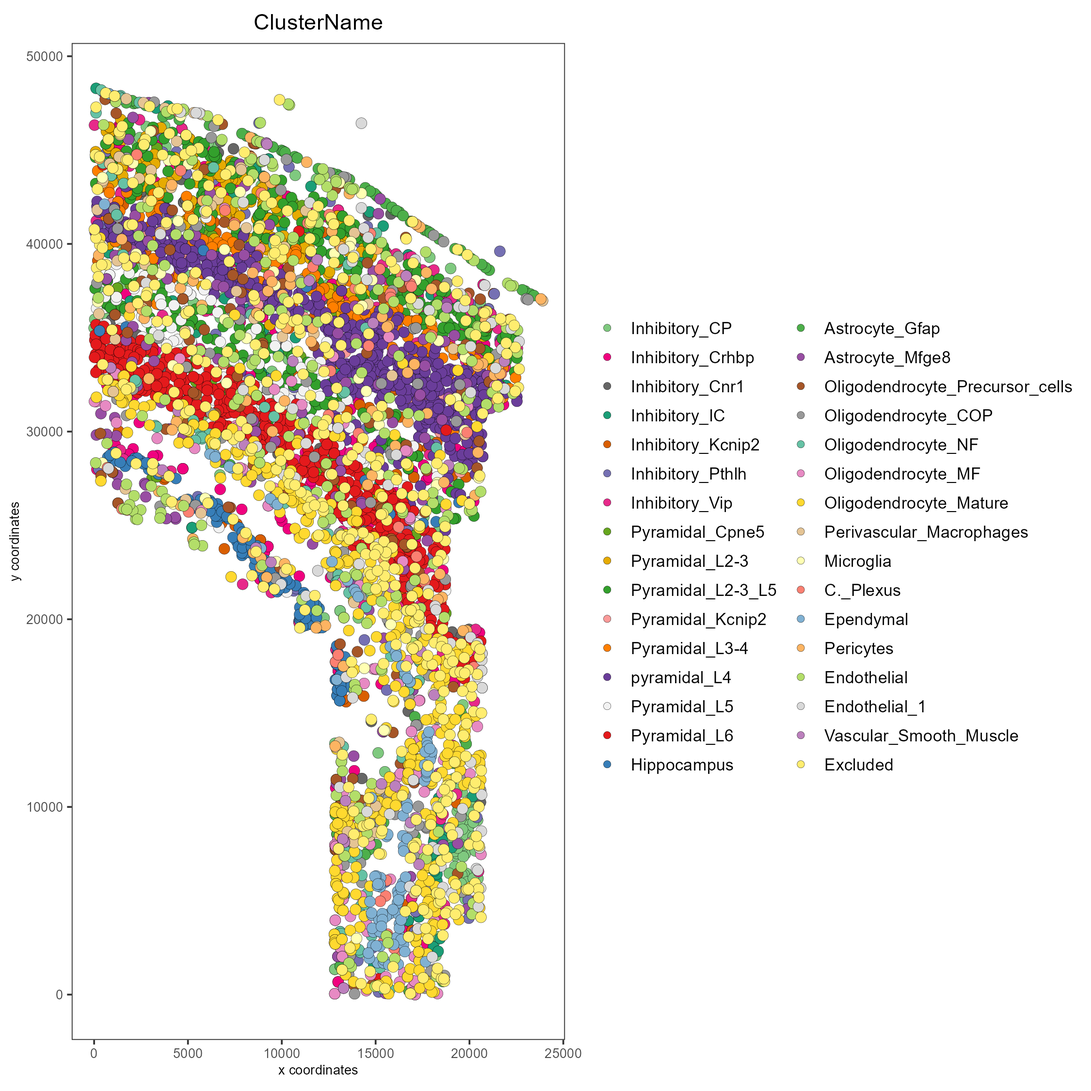
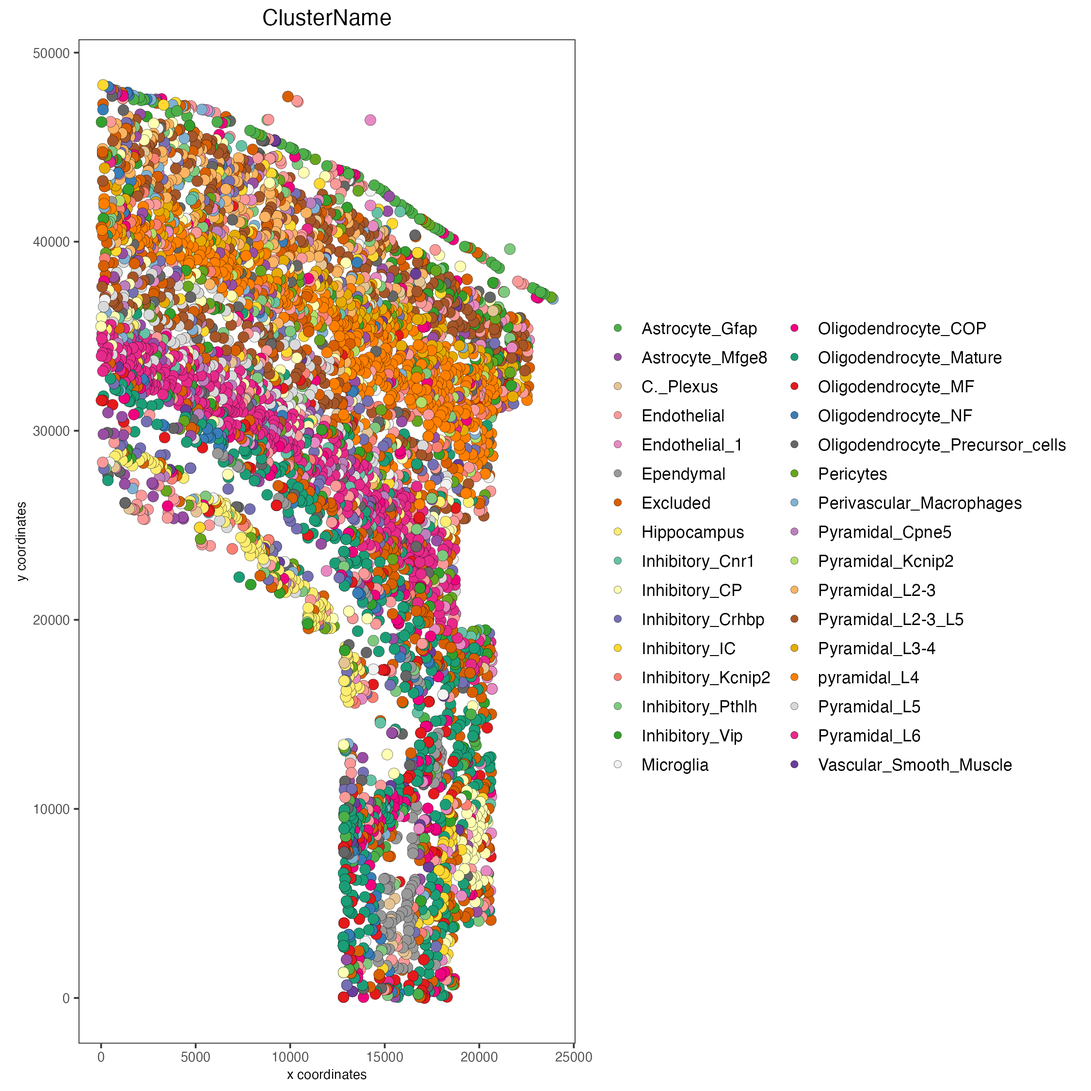
Deploying to gh-pages from @ drieslab/Giotto_website@a1eb78bae1045514c6e5ac2a14a46ceac8975e6e 🚀

diff --git a/articles/object_creation.html b/articles/object_creation.html
@@ -395,7 +395,9 @@ locally.</p>
 <span><span class="co"># alternatively, "/path/to/store/the/results/"</span></span>
 <span></span>
 <span><span class="co"># Download osmFISH dataset to data_directory</span></span>
-<span><span class="fu"><a href="https://drieslab.github.io/GiottoData/reference/getSpatialDataset.html" class="external-link">getSpatialDataset</a></span><span class="op">(</span>dataset <span class="op">=</span> <span class="st">'osmfish_SS_cortex'</span>, directory <span class="op">=</span> <span class="va">data_directory</span>, method <span class="op">=</span> <span class="st">'wget'</span><span class="op">)</span></span></code></pre></div>
+<span><span class="fu"><a href="https://drieslab.github.io/GiottoData/reference/getSpatialDataset.html" class="external-link">getSpatialDataset</a></span><span class="op">(</span>dataset <span class="op">=</span> <span class="st">'osmfish_SS_cortex'</span>, </span>
+<span>                  directory <span class="op">=</span> <span class="va">data_directory</span>, </span>
+<span>                  method <span class="op">=</span> <span class="st">'wget'</span><span class="op">)</span></span></code></pre></div>
 </div>
 <div class="section level3">
 <h3 id="minimum-requirements-for-a-giotto-object">1.2 Minimum requirements for a Giotto Object<a class="anchor" aria-label="anchor" href="#minimum-requirements-for-a-giotto-object"></a>
@@ -413,17 +415,17 @@ shown below this code block.</p>
 <span><span class="va">osm_exprs</span> <span class="op">=</span> <span class="fu"><a href="https://rdrr.io/r/base/paste.html" class="external-link">paste0</a></span><span class="op">(</span><span class="va">data_directory</span>, <span class="st">"osmFISH_prep_expression.txt"</span><span class="op">)</span></span>
 <span><span class="va">osm_locs</span> <span class="op">=</span> <span class="fu"><a href="https://rdrr.io/r/base/paste.html" class="external-link">paste0</a></span><span class="op">(</span><span class="va">data_directory</span>, <span class="st">"osmFISH_prep_cell_coordinates.txt"</span><span class="op">)</span></span>
 <span></span>
-<span><span class="va">minimum_gobject1</span> <span class="op">=</span> <span class="fu"><a href="https://drieslab.github.io/GiottoClass/reference/createGiottoObject.html" class="external-link">createGiottoObject</a></span><span class="op">(</span>expression <span class="op">=</span> <span class="va">osm_exprs</span>,</span>
-<span>                                      spatial_locs <span class="op">=</span> <span class="va">osm_locs</span><span class="op">)</span></span>
+<span><span class="va">minimum_gobject1</span> <span class="op">&lt;-</span> <span class="fu"><a href="https://drieslab.github.io/GiottoClass/reference/createGiottoObject.html" class="external-link">createGiottoObject</a></span><span class="op">(</span>expression <span class="op">=</span> <span class="va">osm_exprs</span>,</span>
+<span>                                       spatial_locs <span class="op">=</span> <span class="va">osm_locs</span><span class="op">)</span></span>
 <span></span>
 <span><span class="co"># Example 2.</span></span>
 <span><span class="co"># Create a Giotto object using objects already loaded into workspace</span></span>
 <span><span class="va">expression_matrix</span> <span class="op">=</span> <span class="fu"><a href="https://drieslab.github.io/GiottoClass/reference/readExprMatrix.html" class="external-link">readExprMatrix</a></span><span class="op">(</span>path <span class="op">=</span> <span class="va">osm_exprs</span><span class="op">)</span> <span class="co"># fast method to read expression matrix</span></span>
 <span><span class="va">cell_locations</span> <span class="op">=</span> <span class="fu">data.table</span><span class="fu">::</span><span class="fu"><a href="https://rdatatable.gitlab.io/data.table/reference/fread.html" class="external-link">fread</a></span><span class="op">(</span>file <span class="op">=</span> <span class="va">osm_locs</span><span class="op">)</span></span>
 <span></span>
-<span><span class="va">minimum_gobject2</span> <span class="op">=</span> <span class="fu"><a href="https://drieslab.github.io/GiottoClass/reference/createGiottoObject.html" class="external-link">createGiottoObject</a></span><span class="op">(</span>expression <span class="op">=</span> <span class="va">expression_matrix</span>,</span>
-<span>                                      spatial_locs <span class="op">=</span> <span class="va">cell_locations</span><span class="op">)</span></span></code></pre></div>
-<p>Expression file formatting</p>
+<span><span class="va">minimum_gobject2</span> <span class="op">&lt;-</span> <span class="fu"><a href="https://drieslab.github.io/GiottoClass/reference/createGiottoObject.html" class="external-link">createGiottoObject</a></span><span class="op">(</span>expression <span class="op">=</span> <span class="va">expression_matrix</span>,</span>
+<span>                                       spatial_locs <span class="op">=</span> <span class="va">cell_locations</span><span class="op">)</span></span></code></pre></div>
+<p><strong>Expression file formatting</strong></p>
 <p>Expression count matrices accepted by <em>Giotto</em> should have
 columns correlating to individual cells (<strong>cell IDs</strong>) and
 rows to individual features (<strong>feature IDs</strong>).</p>
@@ -433,7 +435,7 @@ be <strong>feature IDs</strong>.</p>
 <p><strong>matrix</strong> and <strong>DelayedMatrix</strong> objects
 should have <strong>feature IDs</strong> already incorporated as the
 rownames.</p>
-<p>Locations file formatting</p>
+<p><strong>Locations file formatting</strong></p>
 <p>Numerical columns will be interpreted in order of x, y, and
 (optionally) z coordinate. The first non-numerical column will be taken
 as <strong>cell IDs</strong></p>
@@ -447,10 +449,10 @@ at once during Giotto object creation by using a named list.</p>
 <span><span class="co"># Provide multiple expression matrices at once to the Giotto Object</span></span>
 <span><span class="co"># If these matrices are stored in files rather than in the workspace,</span></span>
 <span><span class="co"># file paths may be provided instead of variables</span></span>
-<span><span class="va">multi_expr_gobject</span> <span class="op">=</span> <span class="fu"><a href="https://drieslab.github.io/GiottoClass/reference/createGiottoObject.html" class="external-link">createGiottoObject</a></span><span class="op">(</span>expression <span class="op">=</span> <span class="fu"><a href="https://rdrr.io/r/base/list.html" class="external-link">list</a></span><span class="op">(</span>raw <span class="op">=</span> <span class="va">expression_matrix</span>,</span>
-<span>                                                          scaled <span class="op">=</span> <span class="va">scaled_matrix</span>,</span>
-<span>                                                          custom <span class="op">=</span> <span class="va">custom_matrix</span><span class="op">)</span>,</span>
-<span>                                        spatial_locs <span class="op">=</span> <span class="va">cell_locations</span><span class="op">)</span></span></code></pre></div>
+<span><span class="va">multi_expr_gobject</span> <span class="op">&lt;-</span> <span class="fu"><a href="https://drieslab.github.io/GiottoClass/reference/createGiottoObject.html" class="external-link">createGiottoObject</a></span><span class="op">(</span>expression <span class="op">=</span> <span class="fu"><a href="https://rdrr.io/r/base/list.html" class="external-link">list</a></span><span class="op">(</span>raw <span class="op">=</span> <span class="va">expression_matrix</span>,</span>
+<span>                                                           scaled <span class="op">=</span> <span class="va">scaled_matrix</span>,</span>
+<span>                                                           custom <span class="op">=</span> <span class="va">custom_matrix</span><span class="op">)</span>,</span>
+<span>                                         spatial_locs <span class="op">=</span> <span class="va">cell_locations</span><span class="op">)</span></span></code></pre></div>
 </div>
 <div class="section level3">
 <h3 id="customizing-the-giotto-object">1.3 Customizing the Giotto Object<a class="anchor" aria-label="anchor" href="#customizing-the-giotto-object"></a>
@@ -511,19 +513,20 @@ modify one or more of these instructions after they have been added to a
 <span>                                  width <span class="op">=</span> <span class="fl">9</span><span class="op">)</span></span>
 <span></span>
 <span><span class="co"># Create Giotto object</span></span>
-<span><span class="va">custom_gobject</span> <span class="op">=</span> <span class="fu"><a href="https://drieslab.github.io/GiottoClass/reference/createGiottoObject.html" class="external-link">createGiottoObject</a></span><span class="op">(</span>expression <span class="op">=</span> <span class="va">osm_exprs</span>,</span>
-<span>                                    spatial_locs <span class="op">=</span> <span class="va">osm_locs</span>,                                      </span>
-<span>                                    instructions <span class="op">=</span> <span class="va">instrs</span><span class="op">)</span></span>
+<span><span class="va">custom_gobject</span> <span class="op">&lt;-</span> <span class="fu"><a href="https://drieslab.github.io/GiottoClass/reference/createGiottoObject.html" class="external-link">createGiottoObject</a></span><span class="op">(</span>expression <span class="op">=</span> <span class="va">osm_exprs</span>,</span>
+<span>                                     spatial_locs <span class="op">=</span> <span class="va">osm_locs</span>,</span>
+<span>                                     instructions <span class="op">=</span> <span class="va">instrs</span><span class="op">)</span></span>
 <span></span>
 <span><span class="co"># Add field annotations as cell metadata</span></span>
 <span><span class="va">metadata</span> <span class="op">=</span> <span class="fu">data.table</span><span class="fu">::</span><span class="fu"><a href="https://rdatatable.gitlab.io/data.table/reference/fread.html" class="external-link">fread</a></span><span class="op">(</span>file <span class="op">=</span> <span class="va">meta_path</span><span class="op">)</span></span>
-<span><span class="va">custom_gobject</span> <span class="op">=</span> <span class="fu"><a href="https://drieslab.github.io/GiottoClass/reference/addCellMetadata.html" class="external-link">addCellMetadata</a></span><span class="op">(</span><span class="va">custom_gobject</span>, </span>
-<span>                                 new_metadata <span class="op">=</span> <span class="va">metadata</span>,</span>
-<span>                                 by_column <span class="op">=</span> <span class="cn">T</span>, </span>
-<span>                                 column_cell_ID <span class="op">=</span> <span class="st">'CellID'</span><span class="op">)</span></span>
+<span></span>
+<span><span class="va">custom_gobject</span> <span class="op">&lt;-</span> <span class="fu"><a href="https://drieslab.github.io/GiottoClass/reference/addCellMetadata.html" class="external-link">addCellMetadata</a></span><span class="op">(</span><span class="va">custom_gobject</span>, </span>
+<span>                                  new_metadata <span class="op">=</span> <span class="va">metadata</span>,</span>
+<span>                                  by_column <span class="op">=</span> <span class="cn">T</span>, </span>
+<span>                                  column_cell_ID <span class="op">=</span> <span class="st">'CellID'</span><span class="op">)</span></span>
 <span></span>
 <span><span class="co"># Show the Giotto instructions associated with the Giotto object</span></span>
-<span><span class="fu"><a href="https://drieslab.github.io/GiottoClass/reference/instructions-generic.html" class="external-link">instructions</a></span><span class="op">(</span><span class="va">custom_gobject</span><span class="op">)</span></span></code></pre></div>
+<span><span class="fu"><a href="https://drieslab.github.io/GiottoClass/reference/showGiottoInstructions.html" class="external-link">showGiottoInstructions</a></span><span class="op">(</span><span class="va">custom_gobject</span><span class="op">)</span></span></code></pre></div>
 <p>Note that although parameters <code>show_plot</code>,
 <code>return_plot</code>, and <code>save_plot</code> were not specified
 within the call to <code><a href="https://drieslab.github.io/GiottoClass/reference/createGiottoInstructions.html" class="external-link">createGiottoInstructions()</a></code>, default
@@ -543,7 +546,9 @@ not be provided as NULL.</p>
 replaced:</p>
 <div class="sourceCode" id="cb5"><pre class="downlit sourceCode r">
 <code class="sourceCode R"><span><span class="co"># Change a specific previously set parameter, e.g. change dpi = 200 to dpi = 300</span></span>
-<span><span class="fu"><a href="https://drieslab.github.io/GiottoClass/reference/instructions-generic.html" class="external-link">instructions</a></span><span class="op">(</span><span class="va">custom_gobject</span>, <span class="st">'dpi'</span><span class="op">)</span> <span class="op">=</span> <span class="fl">300</span></span>
+<span><span class="va">custom_gobject</span> <span class="op">&lt;-</span> <span class="fu"><a href="https://drieslab.github.io/GiottoClass/reference/changeGiottoInstructions.html" class="external-link">changeGiottoInstructions</a></span><span class="op">(</span><span class="va">custom_gobject</span>, </span>
+<span>                                           params <span class="op">=</span> <span class="st">'dpi'</span>,</span>
+<span>                                           new_values <span class="op">=</span> <span class="fl">300</span><span class="op">)</span></span>
 <span></span>
 <span><span class="co"># Observe that the instructions have changed</span></span>
 <span><span class="fu"><a href="https://drieslab.github.io/GiottoClass/reference/instructions-generic.html" class="external-link">instructions</a></span><span class="op">(</span><span class="va">custom_gobject</span>, <span class="st">'dpi'</span><span class="op">)</span></span>
@@ -551,6 +556,7 @@ replaced:</p>
 <span><span class="co"># Create new instructions using a named list</span></span>
 <span><span class="va">sub_results_directory</span> <span class="op">=</span> <span class="fu"><a href="https://rdrr.io/r/base/paste.html" class="external-link">paste0</a></span><span class="op">(</span><span class="va">results_directory</span>, <span class="st">'specific_results/'</span><span class="op">)</span></span>
 <span><span class="va">my_python_path</span> <span class="op">=</span> <span class="fu"><a href="https://drieslab.github.io/GiottoClass/reference/instructions-generic.html" class="external-link">instructions</a></span><span class="op">(</span><span class="va">custom_gobject</span>, <span class="st">'python_path'</span><span class="op">)</span></span>
+<span></span>
 <span><span class="va">new_instrs</span> <span class="op">=</span> <span class="fu"><a href="https://rdrr.io/r/base/list.html" class="external-link">list</a></span><span class="op">(</span>python_path <span class="op">=</span> <span class="va">my_python_path</span>,</span>
 <span>                  show_plot <span class="op">=</span> <span class="cn">TRUE</span>,</span>
 <span>                  return_plot <span class="op">=</span> <span class="cn">FALSE</span>,</span>
@@ -567,7 +573,7 @@ replaced:</p>
 <span><span class="fu"><a href="https://drieslab.github.io/GiottoClass/reference/instructions-generic.html" class="external-link">instructions</a></span><span class="op">(</span><span class="va">custom_gobject</span><span class="op">)</span> <span class="op">=</span> <span class="va">new_instrs</span></span>
 <span></span>
 <span><span class="co"># Observe that the instructions have changed</span></span>
-<span><span class="fu"><a href="https://drieslab.github.io/GiottoClass/reference/instructions-generic.html" class="external-link">instructions</a></span><span class="op">(</span><span class="va">custom_gobject</span><span class="op">)</span></span></code></pre></div>
+<span><span class="fu"><a href="https://drieslab.github.io/GiottoClass/reference/showGiottoInstructions.html" class="external-link">showGiottoInstructions</a></span><span class="op">(</span><span class="va">custom_gobject</span><span class="op">)</span></span></code></pre></div>
 <div class="section level4">
 <h4 id="active-spatial-unit-and-feature-type">1.3.1 Active spatial unit and feature type<a class="anchor" aria-label="anchor" href="#active-spatial-unit-and-feature-type"></a>
 </h4>
@@ -611,9 +617,10 @@ within plotting functions.</p>
 plots.</p>
 <div class="sourceCode" id="cb6"><pre class="downlit sourceCode r">
 <code class="sourceCode R"><span><span class="co"># Plot according to Giotto Instructions (default)</span></span>
-<span><span class="fu"><a href="https://drieslab.github.io/GiottoVisuals/reference/spatPlot.html" class="external-link">spatPlot</a></span><span class="op">(</span><span class="va">custom_gobject</span><span class="op">)</span></span>
-<span></span>
-<span><span class="co"># Plot clusters, create, and save to a new subdirectory, all while overwriting formatting</span></span>
+<span><span class="fu"><a href="https://drieslab.github.io/GiottoVisuals/reference/spatPlot.html" class="external-link">spatPlot</a></span><span class="op">(</span><span class="va">custom_gobject</span><span class="op">)</span></span></code></pre></div>
+<p><img src="images/object_creation/0-spatPlot2D.jpg"></p>
+<div class="sourceCode" id="cb7"><pre class="downlit sourceCode r">
+<code class="sourceCode R"><span><span class="co"># Plot clusters, create, and save to a new subdirectory, all while overwriting formatting</span></span>
 <span><span class="fu"><a href="https://drieslab.github.io/GiottoVisuals/reference/spatPlot.html" class="external-link">spatPlot</a></span><span class="op">(</span><span class="va">custom_gobject</span>, </span>
 <span>         cell_color <span class="op">=</span> <span class="st">'ClusterName'</span>, </span>
 <span>         save_plot <span class="op">=</span> <span class="cn">TRUE</span>,</span>
@@ -633,27 +640,57 @@ classes</a></p>
 <div class="section level3">
 <h3 id="session-info">2. Session Info<a class="anchor" aria-label="anchor" href="#session-info"></a>
 </h3>
-<div class="sourceCode" id="cb7"><pre class="downlit sourceCode r">
+<div class="sourceCode" id="cb8"><pre class="downlit sourceCode r">
 <code class="sourceCode R"><span><span class="fu"><a href="https://rdrr.io/r/utils/sessionInfo.html" class="external-link">sessionInfo</a></span><span class="op">(</span><span class="op">)</span></span></code></pre></div>
-<div class="sourceCode" id="cb8"><pre class="sourceCode r"><code class="sourceCode r"><span id="cb8-1"><a href="#cb8-1" aria-hidden="true" tabindex="-1"></a>    R version <span class="dv">4</span>.<span class="fl">2.1</span> (<span class="dv">2022-06-23</span>)</span>
-<span id="cb8-2"><a href="#cb8-2" aria-hidden="true" tabindex="-1"></a>    Platform<span class="sc">:</span> x86_64<span class="sc">-</span>apple<span class="sc">-</span><span class="fu">darwin17.0</span> (<span class="dv">64</span><span class="sc">-</span>bit)</span>
-<span id="cb8-3"><a href="#cb8-3" aria-hidden="true" tabindex="-1"></a>    Running under<span class="sc">:</span> macOS Big Sur ... <span class="fl">10.16</span></span>
-<span id="cb8-4"><a href="#cb8-4" aria-hidden="true" tabindex="-1"></a></span>
-<span id="cb8-5"><a href="#cb8-5" aria-hidden="true" tabindex="-1"></a>    Matrix products<span class="sc">:</span> default</span>
-<span id="cb8-6"><a href="#cb8-6" aria-hidden="true" tabindex="-1"></a>    BLAS<span class="sc">:</span>   <span class="er">/</span>Library<span class="sc">/</span>Frameworks<span class="sc">/</span>R.framework<span class="sc">/</span>Versions<span class="sc">/</span><span class="fl">4.2</span><span class="sc">/</span>Resources<span class="sc">/</span>lib<span class="sc">/</span>libRblas.<span class="fl">0.</span>dylib</span>
-<span id="cb8-7"><a href="#cb8-7" aria-hidden="true" tabindex="-1"></a>    LAPACK<span class="sc">:</span> <span class="er">/</span>Library<span class="sc">/</span>Frameworks<span class="sc">/</span>R.framework<span class="sc">/</span>Versions<span class="sc">/</span><span class="fl">4.2</span><span class="sc">/</span>Resources<span class="sc">/</span>lib<span class="sc">/</span>libRlapack.dylib</span>
-<span id="cb8-8"><a href="#cb8-8" aria-hidden="true" tabindex="-1"></a></span>
-<span id="cb8-9"><a href="#cb8-9" aria-hidden="true" tabindex="-1"></a>    locale<span class="sc">:</span></span>
-<span id="cb8-10"><a href="#cb8-10" aria-hidden="true" tabindex="-1"></a>    [<span class="dv">1</span>] en_US.UTF<span class="dv">-8</span><span class="sc">/</span>en_US.UTF<span class="dv">-8</span><span class="sc">/</span>en_US.UTF<span class="dv">-8</span><span class="sc">/</span>C<span class="sc">/</span>en_US.UTF<span class="dv">-8</span><span class="sc">/</span>en_US.UTF<span class="dv">-8</span></span>
-<span id="cb8-11"><a href="#cb8-11" aria-hidden="true" tabindex="-1"></a></span>
-<span id="cb8-12"><a href="#cb8-12" aria-hidden="true" tabindex="-1"></a>    attached base packages<span class="sc">:</span></span>
-<span id="cb8-13"><a href="#cb8-13" aria-hidden="true" tabindex="-1"></a>    [<span class="dv">1</span>] stats     graphics  grDevices utils     datasets  methods   base     </span>
-<span id="cb8-14"><a href="#cb8-14" aria-hidden="true" tabindex="-1"></a></span>
-<span id="cb8-15"><a href="#cb8-15" aria-hidden="true" tabindex="-1"></a>    loaded via a <span class="fu">namespace</span> (and not attached)<span class="sc">:</span></span>
-<span id="cb8-16"><a href="#cb8-16" aria-hidden="true" tabindex="-1"></a>     [<span class="dv">1</span>] compiler_4.<span class="fl">2.1</span>  fastmap_1.<span class="fl">1.1</span>   cli_3.<span class="fl">6.1</span>       tools_4.<span class="fl">2.1</span>    </span>
-<span id="cb8-17"><a href="#cb8-17" aria-hidden="true" tabindex="-1"></a>     [<span class="dv">5</span>] htmltools_0.<span class="fl">5.5</span> rstudioapi_0<span class="fl">.14</span> yaml_2.<span class="fl">3.7</span>      rmarkdown_2<span class="fl">.21</span> </span>
-<span id="cb8-18"><a href="#cb8-18" aria-hidden="true" tabindex="-1"></a>     [<span class="dv">9</span>] knitr_1<span class="fl">.42</span>      xfun_0<span class="fl">.39</span>       digest_0.<span class="fl">6.31</span>   jsonlite_1.<span class="fl">8.4</span> </span>
-<span id="cb8-19"><a href="#cb8-19" aria-hidden="true" tabindex="-1"></a>    [<span class="dv">13</span>] rlang_1.<span class="fl">1.1</span>     evaluate_0<span class="fl">.21</span>  </span></code></pre></div>
+<div class="sourceCode" id="cb9"><pre class="sourceCode r"><code class="sourceCode r"><span id="cb9-1"><a href="#cb9-1" aria-hidden="true" tabindex="-1"></a>R version <span class="dv">4</span>.<span class="fl">3.2</span> (<span class="dv">2023-10-31</span>)</span>
+<span id="cb9-2"><a href="#cb9-2" aria-hidden="true" tabindex="-1"></a>Platform<span class="sc">:</span> x86_64<span class="sc">-</span>apple<span class="sc">-</span><span class="fu">darwin20</span> (<span class="dv">64</span><span class="sc">-</span>bit)</span>
+<span id="cb9-3"><a href="#cb9-3" aria-hidden="true" tabindex="-1"></a>Running under<span class="sc">:</span> macOS Sonoma <span class="dv">14</span>.<span class="fl">3.1</span></span>
+<span id="cb9-4"><a href="#cb9-4" aria-hidden="true" tabindex="-1"></a></span>
+<span id="cb9-5"><a href="#cb9-5" aria-hidden="true" tabindex="-1"></a>Matrix products<span class="sc">:</span> default</span>
+<span id="cb9-6"><a href="#cb9-6" aria-hidden="true" tabindex="-1"></a>BLAS<span class="sc">:</span>   <span class="er">/</span>System<span class="sc">/</span>Library<span class="sc">/</span>Frameworks<span class="sc">/</span>Accelerate.framework<span class="sc">/</span>Versions<span class="sc">/</span>A<span class="sc">/</span>Frameworks<span class="sc">/</span>vecLib.framework<span class="sc">/</span>Versions<span class="sc">/</span>A<span class="sc">/</span>libBLAS.dylib </span>
+<span id="cb9-7"><a href="#cb9-7" aria-hidden="true" tabindex="-1"></a>LAPACK<span class="sc">:</span> <span class="er">/</span>Library<span class="sc">/</span>Frameworks<span class="sc">/</span>R.framework<span class="sc">/</span>Versions<span class="sc">/</span><span class="fl">4.3</span><span class="sc">-</span>x86_64<span class="sc">/</span>Resources<span class="sc">/</span>lib<span class="sc">/</span>libRlapack.dylib;  LAPACK version <span class="dv">3</span>.<span class="fl">11.0</span></span>
+<span id="cb9-8"><a href="#cb9-8" aria-hidden="true" tabindex="-1"></a></span>
+<span id="cb9-9"><a href="#cb9-9" aria-hidden="true" tabindex="-1"></a>locale<span class="sc">:</span></span>
+<span id="cb9-10"><a href="#cb9-10" aria-hidden="true" tabindex="-1"></a>[<span class="dv">1</span>] en_US.UTF<span class="dv">-8</span><span class="sc">/</span>en_US.UTF<span class="dv">-8</span><span class="sc">/</span>en_US.UTF<span class="dv">-8</span><span class="sc">/</span>C<span class="sc">/</span>en_US.UTF<span class="dv">-8</span><span class="sc">/</span>en_US.UTF<span class="dv">-8</span></span>
+<span id="cb9-11"><a href="#cb9-11" aria-hidden="true" tabindex="-1"></a></span>
+<span id="cb9-12"><a href="#cb9-12" aria-hidden="true" tabindex="-1"></a>time zone<span class="sc">:</span> America<span class="sc">/</span>New_York</span>
+<span id="cb9-13"><a href="#cb9-13" aria-hidden="true" tabindex="-1"></a>tzcode source<span class="sc">:</span> internal</span>
+<span id="cb9-14"><a href="#cb9-14" aria-hidden="true" tabindex="-1"></a></span>
+<span id="cb9-15"><a href="#cb9-15" aria-hidden="true" tabindex="-1"></a>attached base packages<span class="sc">:</span></span>
+<span id="cb9-16"><a href="#cb9-16" aria-hidden="true" tabindex="-1"></a>[<span class="dv">1</span>] stats     graphics  grDevices utils     datasets  methods   base     </span>
+<span id="cb9-17"><a href="#cb9-17" aria-hidden="true" tabindex="-1"></a></span>
+<span id="cb9-18"><a href="#cb9-18" aria-hidden="true" tabindex="-1"></a>other attached packages<span class="sc">:</span></span>
+<span id="cb9-19"><a href="#cb9-19" aria-hidden="true" tabindex="-1"></a>[<span class="dv">1</span>] GiottoData_0.<span class="dv">2</span>.<span class="fl">7.0</span> GiottoUtils_0.<span class="fl">1.5</span>  Giotto_4.<span class="fl">0.2</span>       GiottoClass_0.<span class="fl">1.3</span> </span>
+<span id="cb9-20"><a href="#cb9-20" aria-hidden="true" tabindex="-1"></a></span>
+<span id="cb9-21"><a href="#cb9-21" aria-hidden="true" tabindex="-1"></a>loaded via a <span class="fu">namespace</span> (and not attached)<span class="sc">:</span></span>
+<span id="cb9-22"><a href="#cb9-22" aria-hidden="true" tabindex="-1"></a> [<span class="dv">1</span>] tidyselect_1.<span class="fl">2.0</span>            farver_2.<span class="fl">1.1</span>                dplyr_1.<span class="fl">1.4</span>                </span>
+<span id="cb9-23"><a href="#cb9-23" aria-hidden="true" tabindex="-1"></a> [<span class="dv">4</span>] GiottoVisuals_0.<span class="fl">1.4</span>         bitops_1<span class="fl">.0</span><span class="dv">-7</span>                fastmap_1.<span class="fl">1.1</span>              </span>
+<span id="cb9-24"><a href="#cb9-24" aria-hidden="true" tabindex="-1"></a> [<span class="dv">7</span>] SingleCellExperiment_1.<span class="fl">24.0</span> RCurl_1<span class="fl">.98-1.14</span>             digest_0.<span class="fl">6.34</span>              </span>
+<span id="cb9-25"><a href="#cb9-25" aria-hidden="true" tabindex="-1"></a>[<span class="dv">10</span>] lifecycle_1.<span class="fl">0.4</span>             processx_3.<span class="fl">8.3</span>              terra_1<span class="fl">.7</span><span class="dv">-71</span>               </span>
+<span id="cb9-26"><a href="#cb9-26" aria-hidden="true" tabindex="-1"></a>[<span class="dv">13</span>] magrittr_2.<span class="fl">0.3</span>              compiler_4.<span class="fl">3.2</span>              rlang_1.<span class="fl">1.3</span>                </span>
+<span id="cb9-27"><a href="#cb9-27" aria-hidden="true" tabindex="-1"></a>[<span class="dv">16</span>] tools_4.<span class="fl">3.2</span>                 utf8_1.<span class="fl">2.4</span>                  yaml_2.<span class="fl">3.8</span>                 </span>
+<span id="cb9-28"><a href="#cb9-28" aria-hidden="true" tabindex="-1"></a>[<span class="dv">19</span>] data.table_1.<span class="fl">15.0</span>           knitr_1<span class="fl">.45</span>                  S4Arrays_1.<span class="fl">2.0</span>             </span>
+<span id="cb9-29"><a href="#cb9-29" aria-hidden="true" tabindex="-1"></a>[<span class="dv">22</span>] labeling_0.<span class="fl">4.3</span>              reticulate_1.<span class="fl">35.0</span>           DelayedArray_0.<span class="fl">28.0</span>        </span>
+<span id="cb9-30"><a href="#cb9-30" aria-hidden="true" tabindex="-1"></a>[<span class="dv">25</span>] RColorBrewer_1<span class="fl">.1</span><span class="dv">-3</span>          abind_1<span class="fl">.4</span><span class="dv">-5</span>                 withr_3.<span class="fl">0.0</span>                </span>
+<span id="cb9-31"><a href="#cb9-31" aria-hidden="true" tabindex="-1"></a>[<span class="dv">28</span>] BiocGenerics_0.<span class="fl">48.1</span>         grid_4.<span class="fl">3.2</span>                  stats4_4.<span class="fl">3.2</span>               </span>
+<span id="cb9-32"><a href="#cb9-32" aria-hidden="true" tabindex="-1"></a>[<span class="dv">31</span>] fansi_1.<span class="fl">0.6</span>                 colorspace_2<span class="fl">.1</span><span class="dv">-0</span>            ggplot2_3.<span class="fl">4.4</span>              </span>
+<span id="cb9-33"><a href="#cb9-33" aria-hidden="true" tabindex="-1"></a>[<span class="dv">34</span>] scales_1.<span class="fl">3.0</span>                gtools_3.<span class="fl">9.5</span>                SummarizedExperiment_1.<span class="fl">32.0</span></span>
+<span id="cb9-34"><a href="#cb9-34" aria-hidden="true" tabindex="-1"></a>[<span class="dv">37</span>] cli_3.<span class="fl">6.2</span>                   rmarkdown_2<span class="fl">.25</span>              crayon_1.<span class="fl">5.2</span>               </span>
+<span id="cb9-35"><a href="#cb9-35" aria-hidden="true" tabindex="-1"></a>[<span class="dv">40</span>] ragg_1.<span class="fl">2.7</span>                  generics_0.<span class="fl">1.3</span>              remotes_2.<span class="dv">4</span>.<span class="fl">2.1</span>            </span>
+<span id="cb9-36"><a href="#cb9-36" aria-hidden="true" tabindex="-1"></a>[<span class="dv">43</span>] rstudioapi_0.<span class="fl">15.0</span>           rjson_0.<span class="fl">2.21</span>                zlibbioc_1.<span class="fl">48.0</span>            </span>
+<span id="cb9-37"><a href="#cb9-37" aria-hidden="true" tabindex="-1"></a>[<span class="dv">46</span>] parallel_4.<span class="fl">3.2</span>              XVector_0.<span class="fl">42.0</span>              matrixStats_1.<span class="fl">2.0</span>          </span>
+<span id="cb9-38"><a href="#cb9-38" aria-hidden="true" tabindex="-1"></a>[<span class="dv">49</span>] vctrs_0.<span class="fl">6.5</span>                 Matrix_1<span class="fl">.6</span><span class="dv">-5</span>                jsonlite_1.<span class="fl">8.8</span>             </span>
+<span id="cb9-39"><a href="#cb9-39" aria-hidden="true" tabindex="-1"></a>[<span class="dv">52</span>] callr_3.<span class="fl">7.3</span>                 IRanges_2.<span class="fl">36.0</span>              S4Vectors_0.<span class="fl">40.2</span>           </span>
+<span id="cb9-40"><a href="#cb9-40" aria-hidden="true" tabindex="-1"></a>[<span class="dv">55</span>] systemfonts_1.<span class="fl">0.5</span>           magick_2.<span class="fl">8.2</span>                pak_0.<span class="fl">7.1</span>                  </span>
+<span id="cb9-41"><a href="#cb9-41" aria-hidden="true" tabindex="-1"></a>[<span class="dv">58</span>] glue_1.<span class="fl">7.0</span>                  codetools_0<span class="fl">.2</span><span class="dv">-19</span>            ps_1.<span class="fl">7.6</span>                   </span>
+<span id="cb9-42"><a href="#cb9-42" aria-hidden="true" tabindex="-1"></a>[<span class="dv">61</span>] cowplot_1.<span class="fl">1.3</span>               gtable_0.<span class="fl">3.4</span>                GenomeInfoDb_1.<span class="fl">38.6</span>        </span>
+<span id="cb9-43"><a href="#cb9-43" aria-hidden="true" tabindex="-1"></a>[<span class="dv">64</span>] GenomicRanges_1.<span class="fl">54.1</span>        munsell_0.<span class="fl">5.0</span>               tibble_3.<span class="fl">2.1</span>               </span>
+<span id="cb9-44"><a href="#cb9-44" aria-hidden="true" tabindex="-1"></a>[<span class="dv">67</span>] pillar_1.<span class="fl">9.0</span>                htmltools_0.<span class="fl">5.7</span>             GenomeInfoDbData_1.<span class="fl">2.11</span>    </span>
+<span id="cb9-45"><a href="#cb9-45" aria-hidden="true" tabindex="-1"></a>[<span class="dv">70</span>] R6_2.<span class="fl">5.1</span>                    textshaping_0.<span class="fl">3.7</span>           evaluate_0<span class="fl">.23</span>              </span>
+<span id="cb9-46"><a href="#cb9-46" aria-hidden="true" tabindex="-1"></a>[<span class="dv">73</span>] lattice_0<span class="fl">.22</span><span class="dv">-5</span>              Biobase_2.<span class="fl">62.0</span>              png_0<span class="fl">.1</span><span class="dv">-8</span>                  </span>
+<span id="cb9-47"><a href="#cb9-47" aria-hidden="true" tabindex="-1"></a>[<span class="dv">76</span>] backports_1.<span class="fl">4.1</span>             SpatialExperiment_1.<span class="fl">12.0</span>    Rcpp_1.<span class="fl">0.12</span>                </span>
+<span id="cb9-48"><a href="#cb9-48" aria-hidden="true" tabindex="-1"></a>[<span class="dv">79</span>] SparseArray_1.<span class="fl">2.4</span>           checkmate_2.<span class="fl">3.1</span>             colorRamp2_0.<span class="fl">1.0</span>           </span>
+<span id="cb9-49"><a href="#cb9-49" aria-hidden="true" tabindex="-1"></a>[<span class="dv">82</span>] xfun_0<span class="fl">.42</span>                   MatrixGenerics_1.<span class="fl">14.0</span>       pkgconfig_2.<span class="fl">0.3</span></span></code></pre></div>
 </div>
 </div>
   </div>
